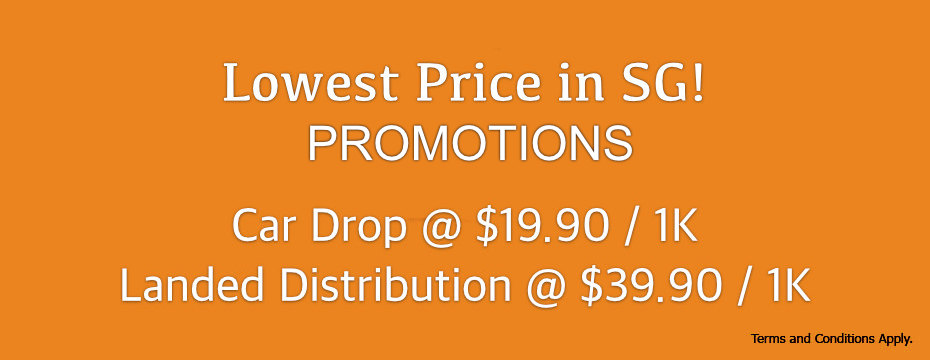
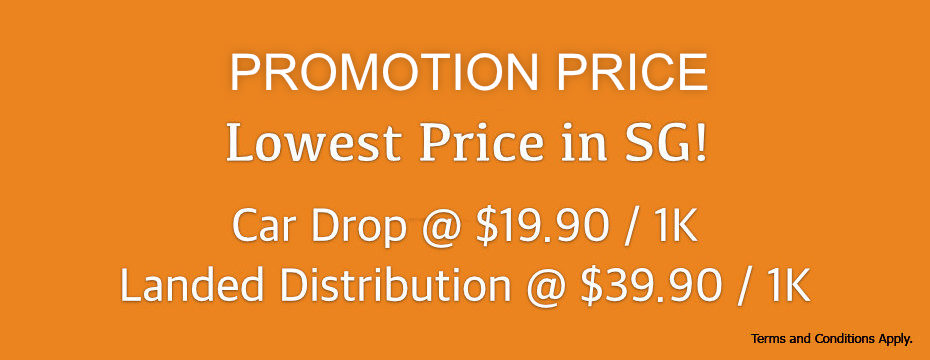
Updated

Changed region(s): [[0.2183, 0.1222, 0.7796, 0.3056], [0.2183, 0.3361, 0.7796, 0.4583]]

diff --git a/index.html b/index.html
@@ -41,16 +41,28 @@
 -->
 
 <p>Hi there!</p>
+<p>For a successful flyer distribution campaign, you need to consider the following:</p>
 
-<p>Wildfire Media is an <b><u>OWNERS-ONLY</u></b> flyer distribution company formed by a group of young entrepreneurs. Our unique business model enables us to provide the most <b><u>RELIABLE</u></b> and <b><u>AFFORDABLE</u></b> service:</p>
+<p>A reliable distribution company.
+Wildfire Media is an OWNERS-ONLY flyer distribution company formed by a group of young entrepreneurs. 
+We, the owners, do the distribution ourselves. Part-timers & even full-timers are not motivated enough. They earn wages rather than profits.
+Enjoy more peace of mind knowing your flyers are in safe hands!</p>
 
-<b>RELIABLE:</b>
-<p>We, the owners, do the distribution ourselves. <b><u>Enjoy more peace of mind knowing your flyers are in safe hands!</u></b></p>
+<p>Stacking - Number of other flyers distributed with your flyer.<br/>
+We offer:</p>
+<p>Single Distribution: that’s your flyer distributed on its own or  
+Shared Distribution: your flyer distributed with 2-3 other non-competing flyers.</p>
+<b>Click here to Find out why it is important to consider “Stacking”.</b> 
 
-<b>AFFORDABLE:</b>
-<p>Our business model allows us to keep cost minimum. <b><u>Enjoy more savings that we pass on to you!</u></b></p>
+<p>Frequency – How often you distribute to the same household, etc...<br/>
+We have the capacity to help you with your distribution, as often as once every 2 weeks.</p>
+<b>Click here to Find out why it is important to consider “Frequency”.</p>
 
-<p>Don't believe us? Check out the price comparison table (on your right) to compare our prices with our top competitors! or</p>
+<p>Flyer content – the words you use on your flyer.</p>
+<p>Click here fFind out how to create effective flyers that sell!</p>
+
+<p>We are having a promotion right now!<br/>
+Compare our Promotional Prices with our top competitors here!</p>
 
 <p>Contact us to <b><u>enjoy the benefits</u></b> right now!</p>
 </div>

diff --git a/flyer.html b/flyer.html
@@ -37,12 +37,19 @@
 
 <div class="sixteen col">
 <br/>
-<p>Compare our prices with our top competitors in SG.</p>
+<p style="font-size:14pt;">Compare our prices with our top competitors in SG.</p>
 <img src="/img/comparison.png" width="500"/>
 <br/><br/>
 <img src="/img/flyer1.png"/>
 <br/>
 <p>Wait no further, contact us today for a non-obligatory discussion.</p>
+</div>
+
+<div class="two-thirds column sidebar">
+<br/>
+<h5>CLIENTS WE WORK WITH</h5>
+<img src="img/clogo.png"/><br><form action="clients"><input type="submit" value="More"></form>
+</div>
 </div>
 
 <div class="clearfooter"></div>
